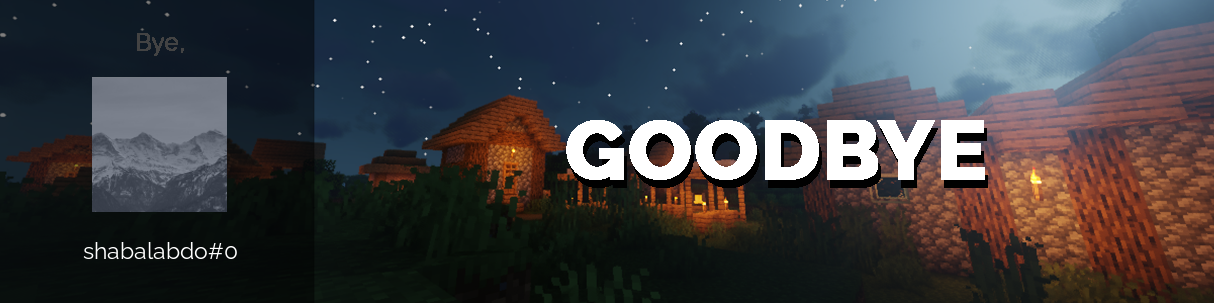
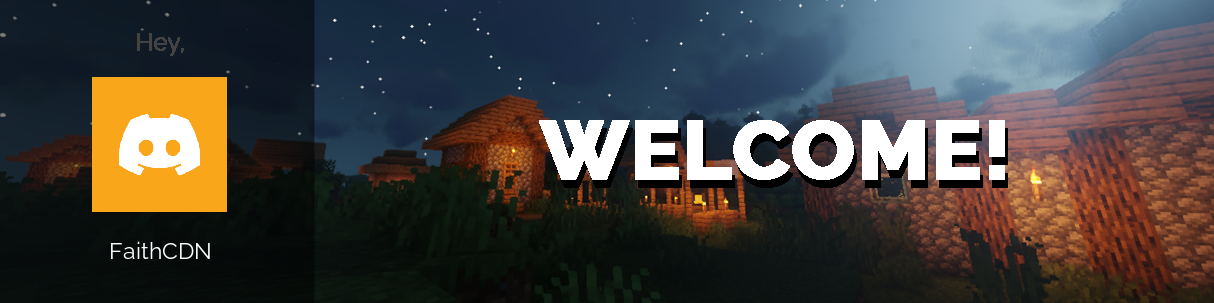
Fixed Join/Leave bug, Ideas.md check, started cleaning up Misc code

diff --git a/cogs/miscellaneous.py b/cogs/miscellaneous.py
@@ -16,8 +16,15 @@ class Miscellaneous(commands.Cog):
             color=color,
             title="Ping Pong! 🏓"
         )
-        embed.add_field(name='Bot Latency!', value=f"Bot ping is **{round(self.bot.latency * 1000)}ms**", inline=True)
-        embed.set_author(name=self.bot.user, icon_url=self.bot.user.avatar)
+        embed.add_field(
+            name='Bot Latency!', 
+            value=f"Bot ping is **{round(self.bot.latency * 1000)}ms**", 
+            inline=True
+        )
+        embed.set_author(
+            name=self.bot.user, 
+            icon_url=self.bot.user.avatar
+        )
         embed.set_thumbnail(url=self.bot.user.avatar)
         embed.set_footer(text=f"Requested by {ctx.author.display_name}")
         embed.timestamp = datetime.datetime.now()
@@ -33,7 +40,10 @@ class Miscellaneous(commands.Cog):
         else:
             memberAv = member.avatar.url
 
-        embed = discord.Embed(title=f"{member.name}'s Avatar", color=color)
+        embed = discord.Embed(
+            title=f"{member.name}'s Avatar", 
+            color=color
+        )
         embed.set_image(url=memberAv)
         embed.set_footer(text=f"Requested by {ctx.author.display_name}")
         embed.timestamp = datetime.datetime.now()

diff --git a/cogs/welcoming.py b/cogs/welcoming.py
@@ -32,7 +32,7 @@ class Welcoming(commands.Cog):
         pfp = Image.open(data)
         pfp = pfp.resize((135, 135))
 
-        text = f"{member.name}#{member.display_name}"
+        text = f"{member.name}"
         leave.paste(pfp, (92, 77))
         text_width = font.getlength(text)
         w,h = text_width, font.size
@@ -63,7 +63,7 @@ class Welcoming(commands.Cog):
         pfp = Image.open(data)
         pfp = pfp.resize((135, 135))
 
-        text = f"{member.name}#{member.display_name}"
+        text = f"{member.name}"
         welcome.paste(pfp, (92, 77))
         text_width = font.getlength(text)
         w,h = text_width, font.size
@@ -99,7 +99,7 @@ Please read the rules at <#942179596718186554>, and you can download the client 
 #         pfp = Image.open(data)
 #         pfp = pfp.resize((135, 135))
 
-#         text = f"{member.name}#{member.discriminator}"
+#         text = f"{member.name}"
 #         welcome.paste(pfp, (92, 77))
 #         text_width = font.getlength(text)
 #         w,h = text_width, font.size

diff --git a/Ideas.md b/Ideas.md
@@ -1,9 +1,9 @@
 ## Ideas For Faithbot!
 
-E.g: Blah blah - Hebiscuits (✅/❌) <- Approved or disapproved by others
+E.g: Blah blah - Hebiscuits ✅/❌(Name, second name) <- Approved or disapproved by others
 
-- Memes Command, takes a meme from a meme api and sends an embed - Hebiscuits ✅
-- Ticketing system, I planned to do this but wanted ur thoughts - Hebiscuits ✅ 
-- Make Serverinfo, userinfo send an embeded image with the data on the image, like welcome and leaving - Hebiscuits ✅
-- Moderation system, structure close to the help command, easier to use - Immo
-- Log system, logging anything from message deletion to invite creation - Immo
+- Memes Command, takes a meme from a meme api and sends an embed - Hebiscuits ✅(Immo)
+- Ticketing system, I planned to do this but wanted ur thoughts - Hebiscuits ✅(Immo)
+- Make Serverinfo, userinfo send an embeded image with the data on the image, like welcome and leaving - Hebiscuits ✅(Immo)
+- Moderation system, structure close to the help command, easier to use - Immo ✅(Heb)
+- Log system, logging anything from message deletion to invite creation - Immo ✅(Heb)

diff --git a/README.md b/README.md
@@ -7,5 +7,5 @@ Made by - syseditor (immo), Hebiscuit, devgocri
 - Basic Moderation -- plannned 
 - Dynamic Help Commannd -- on hold
 - Make Serverinfo look better fr 
-- Clean up ugly spaghetti code in misc
-- Fix Join/Leave bug, shows user display name twice
+- Clean up ugly spaghetti code in misc -- in the works
+- 
